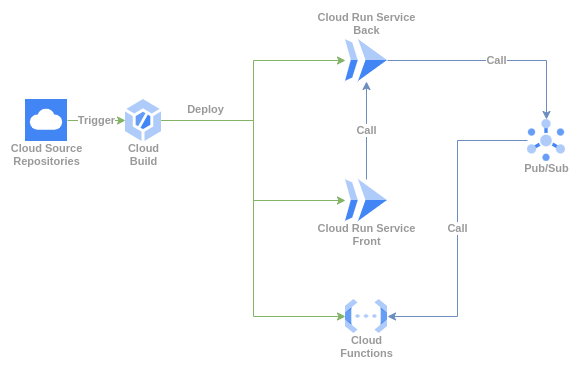
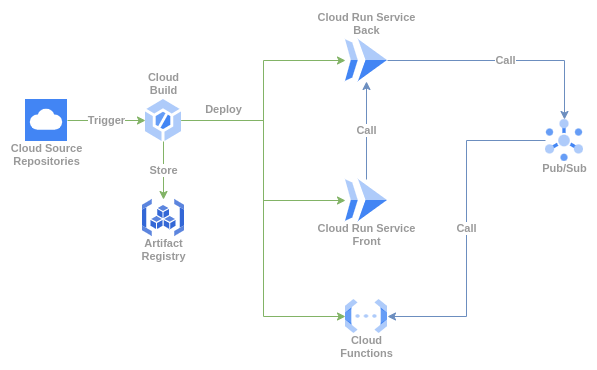
Atualização do readme

diff --git a/README.md b/README.md
@@ -3,13 +3,40 @@
 Buildar Imagem docker:
 
 ```bash
-docker build -t demo-front:latest .
+docker build -t $REGION-docker.pkg.dev/$PROJECT_ID/$REPOSITORY/front-demo:$LABEL .
 ```
 
 Executar imagem docker localmente:
 
 ```bash
-docker run -t -p 8080:8080 --env BACK_END_URL=http://localhost:8000 front-demo:v1
+docker run -t -p 8080:8080 \
+	--env BACK_END_URL=$BACK_URL \
+	$REGION-docker.pkg.dev/$PROJECT_ID/$REPOSITORY/front-demo:$LABEL
+```
+
+Enviar ao Artifact Registry:
+
+```bash
+docker push $REGION-docker.pkg.dev/$PROJECT_ID/$REPOSITORY/front-demo:$LABEL
+```
+
+Deploy da imagem no GCP:
+
+```bash
+gcloud run deploy front-demo \
+	--image $REGION-docker.pkg.dev/$PROJECT_ID/$REPOSITORY/front-demo:$LABEL \
+	--region $REGION
 ```
 
 ![Serverless Architecture](serverless_architecture.png "Serverless Architecture")
+
+
+
+Testar Localmente:
+
+```bash
+docker build -t front-demo:latest && \
+docker run -t -p 8080:8080 \
+	--env BACK_END_URL=http://localhost:8000 \
+	front-demo:latest
+```
